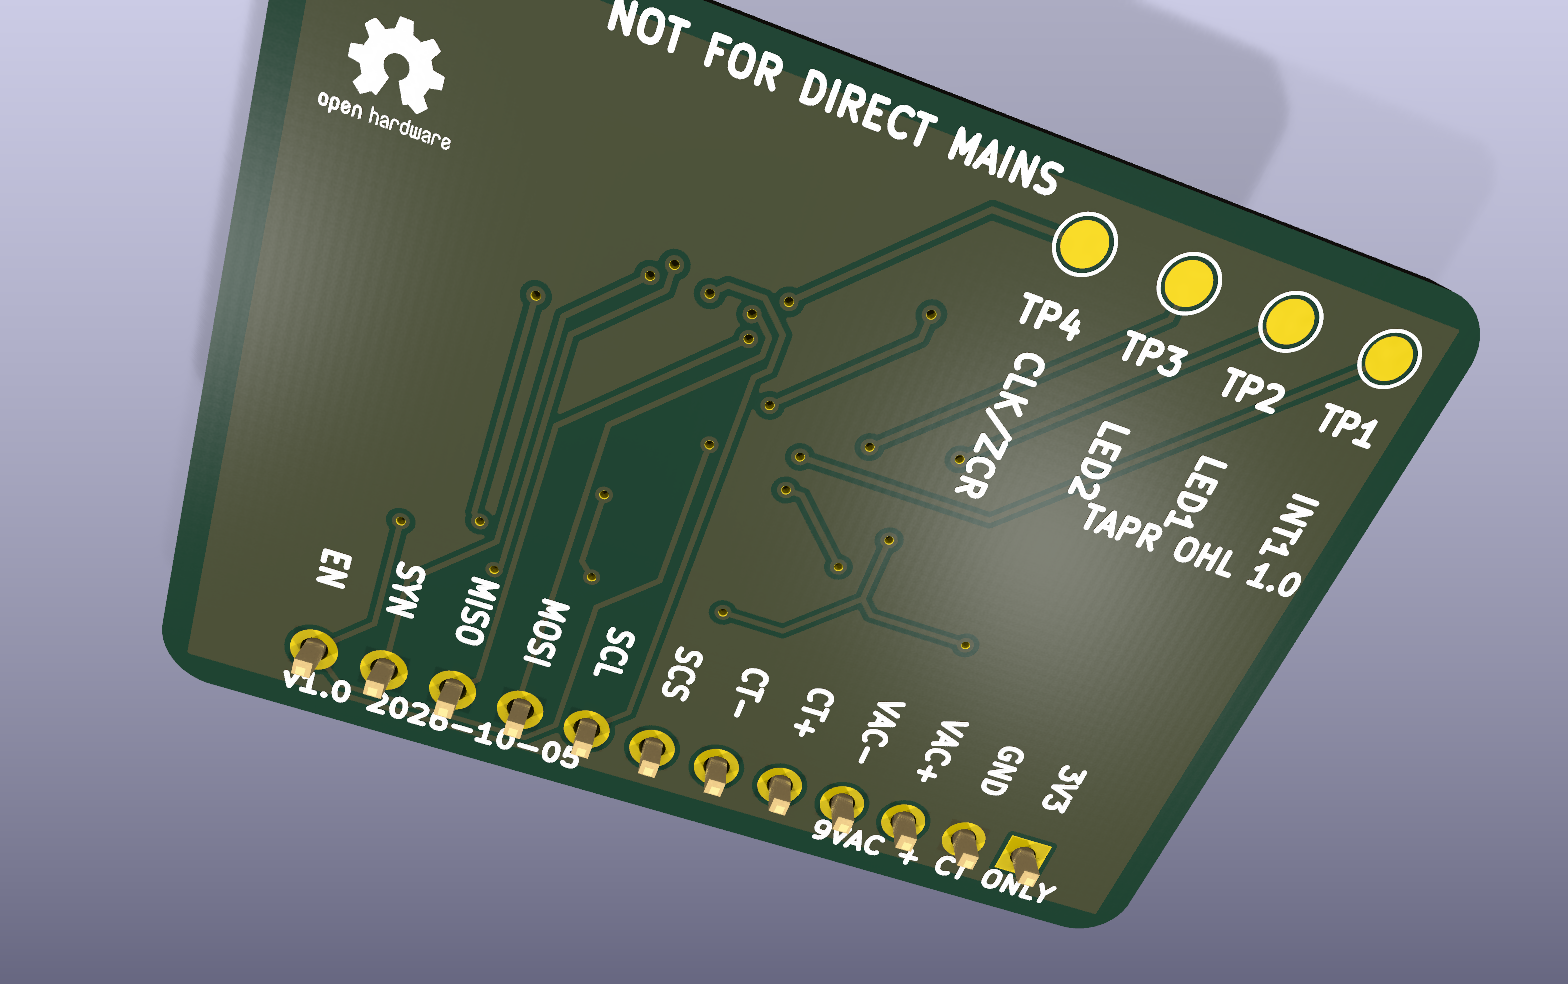
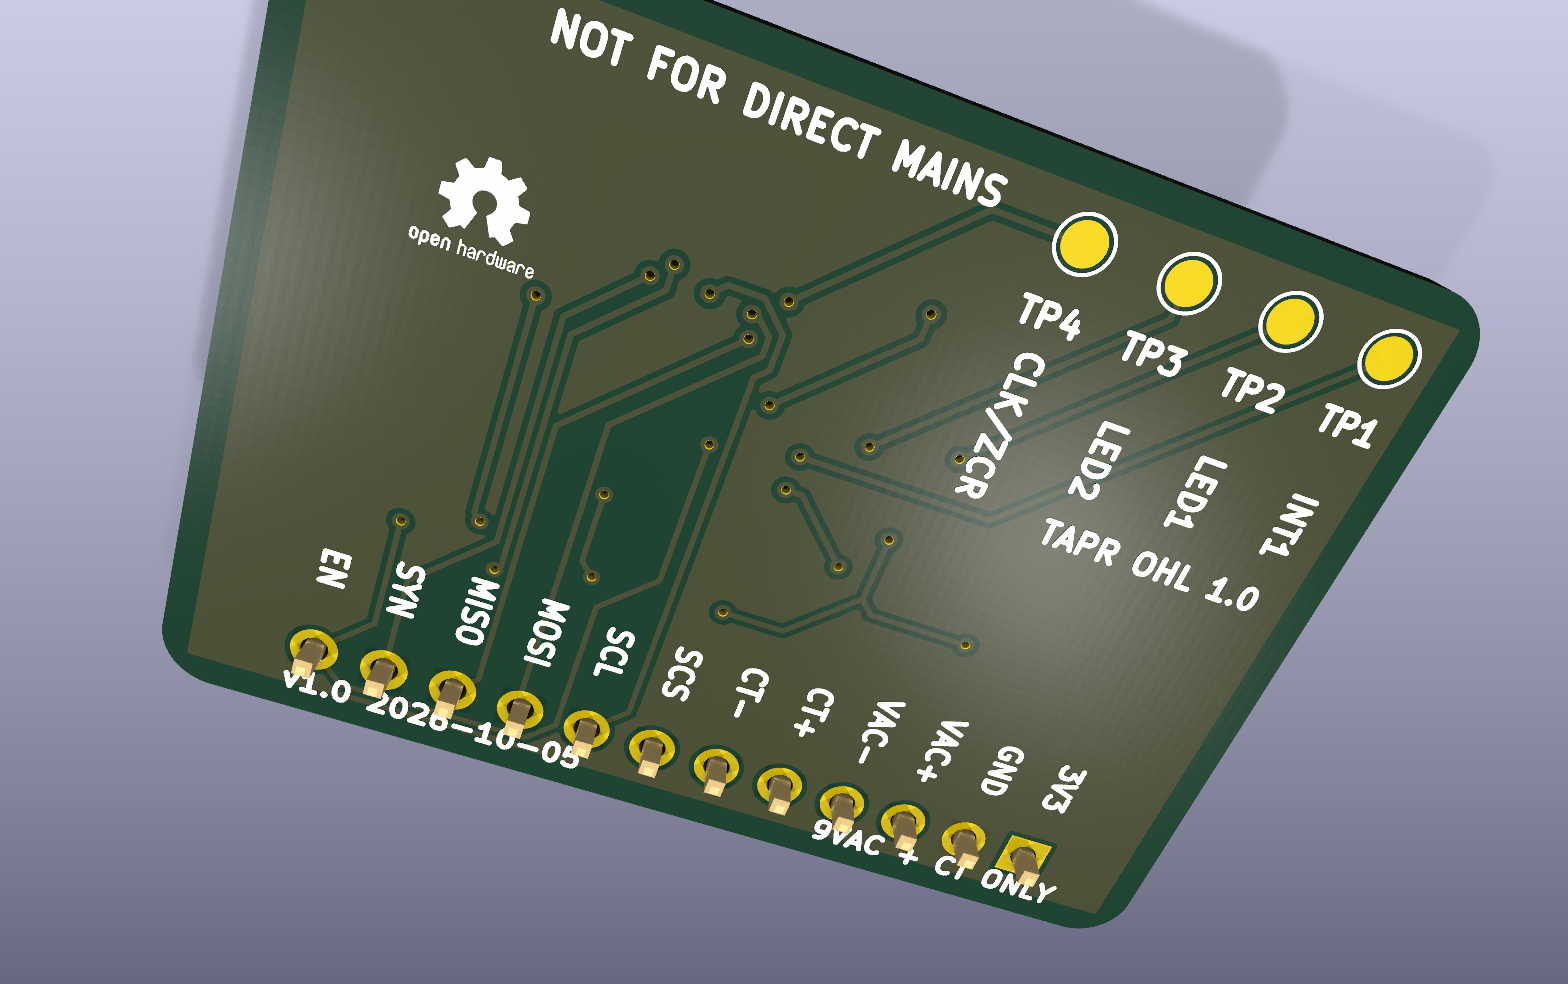
Refine STPM32 silkscreen placement

diff --git a/scripts/apply_stpm32_silkscreen.py b/scripts/apply_stpm32_silkscreen.py
@@ -141,7 +141,7 @@ def add_logos(board: pcbnew.BOARD) -> None:
         raise RuntimeError("Unable to load project-local logo footprints")
 
     whatnick.SetReference("LOGO_W")
-    whatnick.SetPosition(point(23.70, 25.00))
+    whatnick.SetPosition(point(25.654, 26.924))
     whatnick.SetExcludedFromBOM(True)
     whatnick.SetExcludedFromPosFiles(True)
     whatnick.Reference().SetVisible(False)
@@ -149,21 +149,21 @@ def add_logos(board: pcbnew.BOARD) -> None:
     board.Add(whatnick)
 
     oshw.SetReference("LOGO_OSHW")
-    oshw.SetPosition(point(54.40, 25.00))
+    oshw.SetPosition(point(51.054, 27.940))
     oshw.SetExcludedFromBOM(True)
     oshw.SetExcludedFromPosFiles(True)
     oshw.Reference().SetVisible(False)
     oshw.Value().SetVisible(False)
     board.Add(oshw)
-    oshw.Flip(point(54.40, 25.00), False)
+    oshw.Flip(point(51.054, 27.940), False)
 
 
 def add_board_markings(board: pcbnew.BOARD) -> None:
-    add_text(board, "STPM32 ENERGY", 49.50, 21.55, pcbnew.F_SilkS, size=1.0)
-    add_text(board, "whatnick.com", 53.00, 23.50, pcbnew.F_SilkS)
+    add_text(board, "STPM32 ENERGY", 27.813, 29.591, pcbnew.F_SilkS, size=1.0)
+    add_text(board, "whatnick.com", 52.324, 24.003, pcbnew.F_SilkS)
 
-    add_text(board, "TAPR OHL 1.0", 25.20, 31.00, pcbnew.B_SilkS)
-    add_text(board, "NOT FOR DIRECT MAINS", 42.00, 21.20, pcbnew.B_SilkS)
+    add_text(board, "TAPR OHL 1.0", 26.289, 32.004, pcbnew.B_SilkS)
+    add_text(board, "NOT FOR DIRECT MAINS", 43.434, 22.098, pcbnew.B_SilkS)
     add_text(board, "9VAC + CT ONLY", 28.20, 46.75, pcbnew.B_SilkS)
     add_text(board, "v1.0 2026-10-05", 48.20, 46.75, pcbnew.B_SilkS)
 
